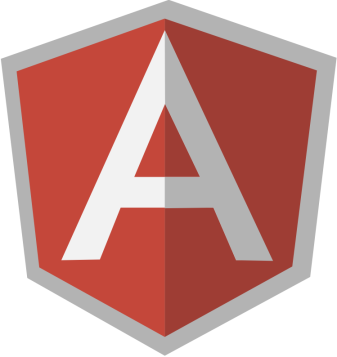
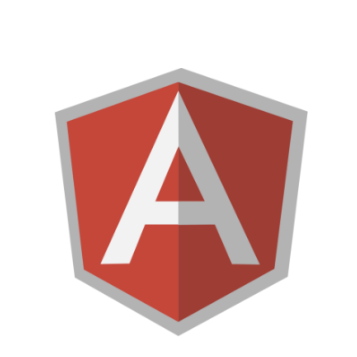
styling for about module

diff --git a/src/js/app/modules/about/about.html b/src/js/app/modules/about/about.html
@@ -4,12 +4,15 @@
 	<p> This is a skelton for a Single Page Application using <a href="https://angularjs.org/" target=_blank>Angular JS</a> and <a href="http://gulpjs.com/" target=_blank>Gulp JS</a>.
 
 
-	<div class="col-50">
+	<div class="col-33">
 
 		<img src="assets/img/gulp.png" />
 
 	</div>
-	<div class="col-50">
+	<div class="col-33 ng-plus-gulp">
+		+
+	</div>
+	<div class="col-33">
 
 		<img src="assets/img/angularjs.png" />
 

diff --git a/src/styles/main.scss b/src/styles/main.scss
@@ -13,6 +13,10 @@
 @import 'partials/navigation';
 
 
+/*
+ * Modules
+ */
+@import 'modules/about';
 .responsive{
 	$height-phone: 480px;
 	$width-phone: 320px;

diff --git a/src/styles/modules/_about.scss b/src/styles/modules/_about.scss
@@ -1,0 +1,6 @@
+.ng-plus-gulp{
+	color: #C4473A;
+	font-size: 5em;
+	padding-top: 10%;
+	text-align: center;
+}
